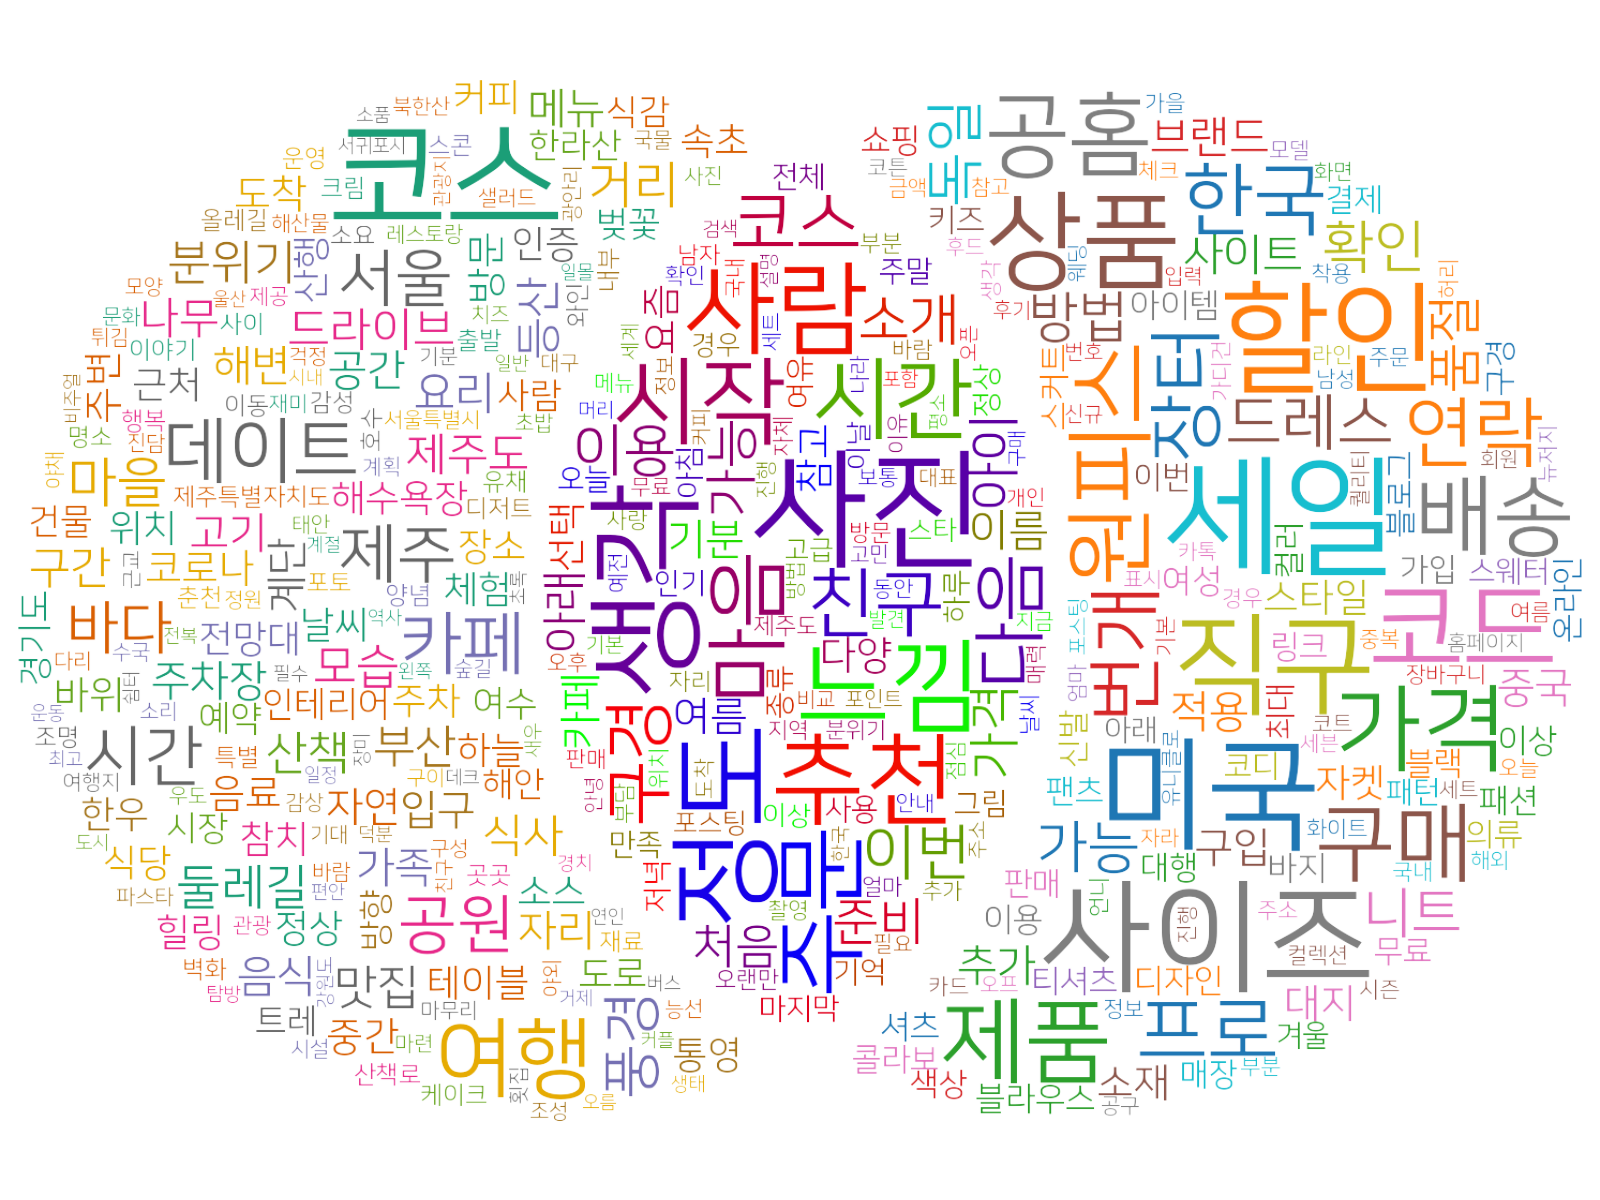
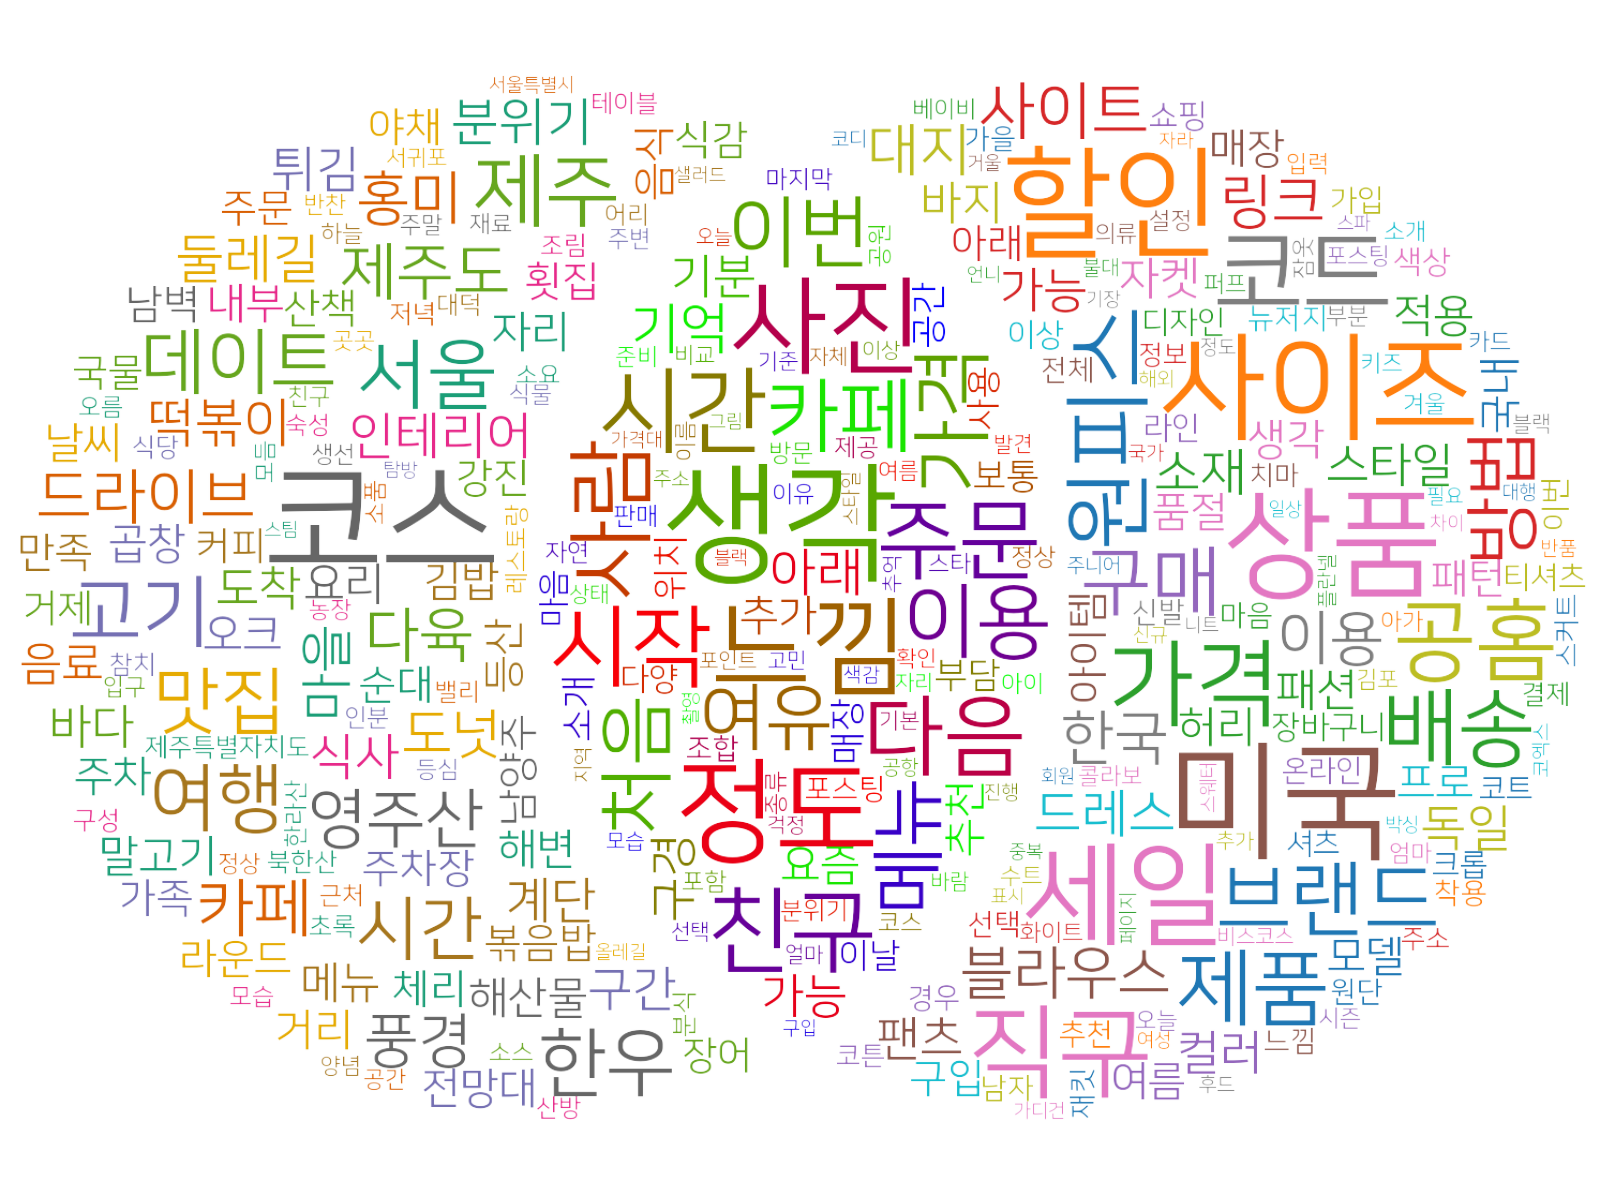
'2020-06-30'

Changed region(s): [[0.0, 0.0617, 1.0, 0.925]]

diff --git a/crawler/data_util.py b/crawler/data_util.py
@@ -19,7 +19,7 @@ class DataUtil:
         self.font_name = 'NanumSquareR.ttf'
         self.font_dir = '/fonts'
         self.mask_dir = '/img/wordcloud'
-
+        self.task_id = None
     def convert_channel(selt,channel):
         if channel == 'Naver_Blog':
             return 'naverblog'
@@ -59,22 +59,24 @@ class DataUtil:
                   task['id']]
 
         input_list = [a_list, b_list]
-        print('input_list:', input_list)
         self.input_lsit = input_list
         return input_list
 
 
-    def to_crawl(self, input_list):
+    def to_crawl(self, input_list,results, i):
         keyword = input_list[0]
         channel = input_list[1]
         startdate = input_list[2]
         enddate = input_list[3]
         nUrl = (input_list[4])
         print('nUrl_type:', type(nUrl))
-        if channel == 'Naver_Blog':
-            naverblog.crawl(keyword, startdate, enddate, int(nUrl))
-        elif channel == 'Naver_News':
-            navernews.crawl(keyword, startdate, enddate, int(nUrl))
+        print(channel)
+        if channel == 'naverblog':
+            self.task_id = naverblog.crawl(keyword, startdate, enddate, int(nUrl))
+        elif channel == 'navernews':
+            self.task_id = navernews.crawl(keyword, startdate, enddate, int(nUrl))
+
+        results[i]= self.task_id
 
     def to_venndiagram_wordcloud(self,input_data):
         task_a = input_data[0]
@@ -86,6 +88,7 @@ class DataUtil:
         startdate_a = task_a[2]
         enddate_a = task_a[3]
         nUrl_a = task_a[4]
+        task_id_a = task_a[6]
 
         #task_B에 관한 작업 수행
         keyword_b = task_b[0]
@@ -94,10 +97,11 @@ class DataUtil:
         enddate_b = task_b[3]
         nUrl_b = task_b[4]
 
-        id = task_a[5]
+        task_id_b = task_b[6]
 
-        analyzer_a = textAnalyzer.TextAnalyzer(keyword_a,channel_a,startdate_a, enddate_a, "Mecab", nUrl_a, id, 'A')
-        analyzer_b = textAnalyzer.TextAnalyzer(keyword_b,channel_b, startdate_b, enddate_b, "Mecab", nUrl_b, id, 'B')
+        id = task_a[5]
+        analyzer_a = textAnalyzer.TextAnalyzer(keyword_a,channel_a,startdate_a, enddate_a, "Mecab", nUrl_a, task_id_a, 'A', id)
+        analyzer_b = textAnalyzer.TextAnalyzer(keyword_b,channel_b, startdate_b, enddate_b, "Mecab", nUrl_b, task_id_b, 'B', id)
 
         #워드클라우드를 위한 텍스트 분석
         dict_a = analyzer_a.extractFrequentWords(500,1)

diff --git a/wordcloud_check.py b/wordcloud_check.py
@@ -9,6 +9,8 @@ import parmap
 from threading import Thread
 from crawler import dao
 from crawler import data_util
+from queue import Queue
+import concurrent.futures
 
 ##ydns dao 객체 생성
 dao_ydns = dao.DAO(host='103.55.190.32', port=3306, user='wordcloud', password='word6244!@', db='crawl', charset= 'utf8mb4')
@@ -42,19 +44,27 @@ elif len(row_gr)>0:
         #task 를 thread 처리 하기 위해 input_data 로 만들어줍니다.
         input_data = dt.data_process()
 
+
         #dt.to_crawl 입력받은 데이터를 크롤링 엔진으로 전달
-        ts = [Thread(target=dt.to_crawl, args=(input_list,))\
-                     for input_list in input_data]
+
+        #threading 생성
+        threads = [None] * len(input_data)
+        results = [None] * len(input_data)
 
         #모든 스레드를 각각 시작한다.
-        for t in ts:
-            t.start()
-
-        #모든 스레드를 join 한다.
-        for t in ts:
-
-            t.join()
+        for index, input_list in enumerate(input_data):
+            threads[index] = Thread(target=dt.to_crawl, args=(input_list, results, index))
+            threads[index].start()
+        #쓰레드 종료
+        for i in range(len(threads)):
+            threads[i].join()
         #워드클라우드 생성
+
+        #쓰레드 결과 값(TASK ID ) 워드클라우드 생성을 위해 전달
+        for index,input_list in enumerate(input_data):
+            input_list.append(results[index])
+        print('final_input_data',input_data)
+
         dt.to_venndiagram_wordcloud(input_data)
 
         #마무으리

diff --git a/analyzer/textAnalyzer.py b/analyzer/textAnalyzer.py
@@ -15,7 +15,7 @@ import os
 
 class TextAnalyzer:
 
-    def __init__(self, keyword,channel, startDate, endDate, nlpEngine, nUrl, id, category):
+    def __init__(self, keyword,channel, startDate, endDate, nlpEngine, nUrl, task_id, category, id):
 
         self.keyword = keyword
 
@@ -26,6 +26,7 @@ class TextAnalyzer:
         self.nlpEngine = nlpEngine
 
         self.nUrl = nUrl
+        self.task_id = task_id
         self.id = id
         self.category = category
         if nlpEngine == "Okt":
@@ -51,8 +52,8 @@ class TextAnalyzer:
         # 192.168.0.105
         # 103.55.190.32 wordcloud ap
         curs = conn.cursor(pymysql.cursors.DictCursor)
-        sql = "select * from %s where (keyword=\'%s\') and channel=\'%s\' and post_date>=\'%s\' and post_date<=\'%s\' limit %d" % \
-              (table,self.keyword, self.channel ,self.startDate, self.endDate, self.nUrl)
+        sql = "select * from %s where (keyword=\'%s\') and channel=\'%s\' and post_date>=\'%s\' and post_date<=\'%s\' and task_id=\'%s\' limit %d" % \
+              (table,self.keyword, self.channel ,self.startDate, self.endDate, self.task_id ,self.nUrl)
         print('sql=', sql)
         curs.execute(sql)
 

diff --git a/analyzer/renderWordCloud.py b/analyzer/renderWordCloud.py
@@ -12,7 +12,7 @@ class WordCloudRenderer:
         self.base_dir = dirname(dirname(__file__))
         self.mask_dir = '/img/wordcloud'
 
-        self.font_name = 'NanumSquareR.ttf'
+        self.font_dir = '/fonts/NanumSquareR.ttf'
 
         self.maskPic = np.array(Image.open(self.base_dir+self.mask_dir+'/mask.png'))
         self.palette= pal
@@ -26,7 +26,7 @@ class WordCloudRenderer:
 
         # cmap = LinearSegmentedColormap.from_list("mycmap", self.colors)
 
-        wordcloud = WordCloud(font_path='{}/{}'.format(self.base_dir,self.font_name),\
+        wordcloud = WordCloud(font_path='{}/{}'.format(self.base_dir,self.font_dir),\
                                   background_color="rgba(255, 255, 255, 0)", mode="RGBA",\
                                   max_font_size=120, \
                                   min_font_size=18, \

diff --git a/thread_test.py b/thread_test.py
@@ -1,0 +1,18 @@
+from threading import Thread
+
+def foo(bar, result, index):
+    print ('hello {}'.format(bar))
+    result[index] = "foo"+str(index)
+threads = [None] * 10
+results = [None] * 10
+
+for i in range(len(threads)):
+    threads[i] = Thread(target=foo, args=('world!', results, i))
+    threads[i].start()
+
+# do some other stuff
+
+for i in range(len(threads)):
+    threads[i].join()
+
+print (results)  # what sound does a metasyntactic locomotive make?

diff --git a/crawler/naverblog.py b/crawler/naverblog.py
@@ -111,7 +111,7 @@ def crawl(keyword, startDate, endDate, nCrawl, comment="naverblog") :
                 end = True
 
         if end : break
-
+    return task_id
 
 def get_keyhex(keyword) :
     keyint = keyword.encode("UTF-8")

diff --git a/crawler/navernews.py b/crawler/navernews.py
@@ -135,6 +135,7 @@ def crawl(keyword, startDate, endDate, nCrawl, comment="navernews_test") :
         if end : break
         pageNo += 1
 
+    return task_id
 
 def get_keyhex(keyword) :
     keyint = keyword.encode("UTF-8")
